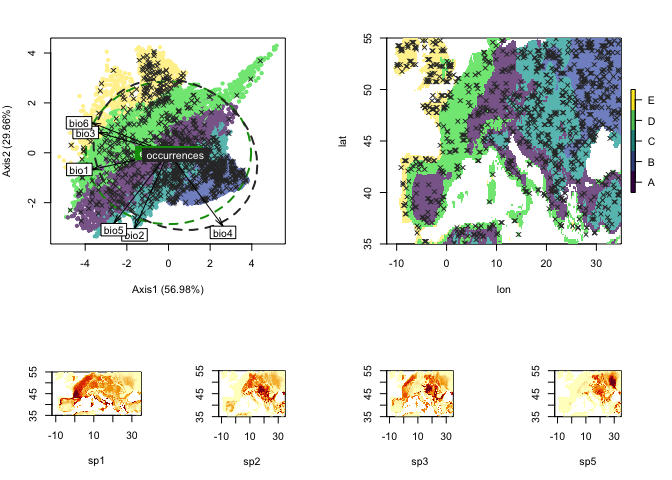
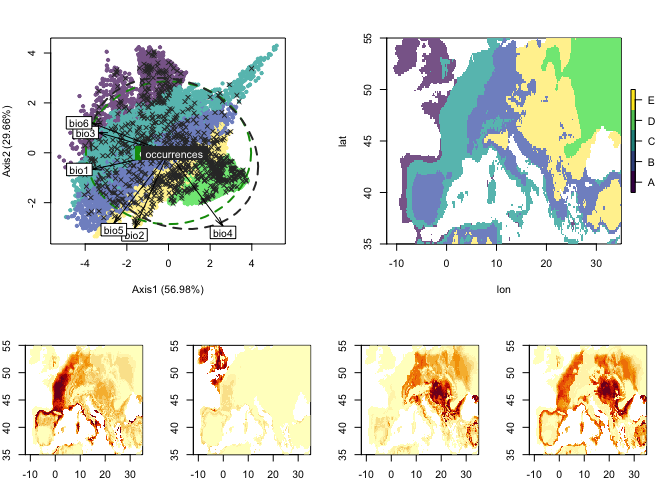
upudate sim data

diff --git a/README.md b/README.md
@@ -52,40 +52,38 @@ g1_EN = EN_model(env_data, occ_data1, cluster = "env", n.clus = 5)
 #> [1] "A" "B" "C" "D" "E"
 #>  - Carrying out species EN models in region A...
 #>      - Modelling spA Environmental Niche...
-#>      - Estimating spA niche response in region A...
+#> Warning in EN_model_(env, occ, res = res, nstart = nstart, k.max = k.max, : Not
+#> enough observations of spA in region A.
 #>      - Modelling spB Environmental Niche...
 #>      - Estimating spB niche response in region A...
 #>      - Modelling spC Environmental Niche...
 #>      - Estimating spC niche response in region A...
-#>      - Modelling spD Environmental Niche...
-#>      - Estimating spD niche response in region A...
-#>      - Modelling spE Environmental Niche...
-#>      - Estimating spE niche response in region A...
 #>  - Carrying out species EN models in region B...
 #>      - Modelling spA Environmental Niche...
-#> Warning in EN_model_(env, occ, res = res, nstart = nstart, k.max = k.max, : Not
-#> enough observations of spA in region B.
+#>      - Estimating spA niche response in region B...
 #>      - Modelling spB Environmental Niche...
 #>      - Estimating spB niche response in region B...
 #>      - Modelling spC Environmental Niche...
 #>      - Estimating spC niche response in region B...
 #>      - Modelling spD Environmental Niche...
-#>      - Estimating spD niche response in region B...
+#> Warning in EN_model_(env, occ, res = res, nstart = nstart, k.max = k.max, : Not
+#> enough observations of spD in region B.
+#>      - Modelling spE Environmental Niche...
+#>      - Estimating spE niche response in region B...
 #>  - Carrying out species EN models in region C...
 #>      - Modelling spA Environmental Niche...
-#>      - Estimating spA niche response in region C...
+#> Warning in EN_model_(env, occ, res = res, nstart = nstart, k.max = k.max, : Not
+#> enough observations of spA in region C.
 #>      - Modelling spB Environmental Niche...
 #>      - Estimating spB niche response in region C...
 #>      - Modelling spC Environmental Niche...
 #>      - Estimating spC niche response in region C...
-#>      - Modelling spD Environmental Niche...
-#>      - Estimating spD niche response in region C...
 #>      - Modelling spE Environmental Niche...
-#>      - Estimating spE niche response in region C...
+#> Warning in EN_model_(env, occ, res = res, nstart = nstart, k.max = k.max, : Not
+#> enough observations of spE in region C.
 #>  - Carrying out species EN models in region D...
 #>      - Modelling spA Environmental Niche...
-#> Warning in EN_model_(env, occ, res = res, nstart = nstart, k.max = k.max, : Not
-#> enough observations of spA in region D.
+#>      - Estimating spA niche response in region D...
 #>      - Modelling spB Environmental Niche...
 #>      - Estimating spB niche response in region D...
 #>      - Modelling spC Environmental Niche...
@@ -95,6 +93,8 @@ g1_EN = EN_model(env_data, occ_data1, cluster = "env", n.clus = 5)
 #>      - Modelling spE Environmental Niche...
 #>      - Estimating spE niche response in region D...
 #>  - Carrying out species EN models in region E...
+#>      - Modelling spA Environmental Niche...
+#>      - Estimating spA niche response in region E...
 #>      - Modelling spB Environmental Niche...
 #>      - Estimating spB niche response in region E...
 #>      - Modelling spC Environmental Niche...
@@ -102,14 +102,14 @@ g1_EN = EN_model(env_data, occ_data1, cluster = "env", n.clus = 5)
 #>      - Modelling spD Environmental Niche...
 #>      - Estimating spD niche response in region E...
 #>      - Modelling spE Environmental Niche...
-#> Warning in EN_model_(env, occ, res = res, nstart = nstart, k.max = k.max, : Not
-#> enough observations of spE in region E.
+#>      - Estimating spE niche response in region E...
 #> Warning in EN_model_(env, occ, res = res, nstart = nstart, k.max = k.max, :
 #> Model failed to predict the following species due to lack of observations
 #>   region species
-#> 1      B     spA
-#> 2      D     spA
-#> 3      E     spE
+#> 1      A     spA
+#> 2      B     spD
+#> 3      C     spA
+...
 #> Species EN models succesfully completed!
 g2_EN = EN_model(env_data, occ_data2, cluster = g1_EN$clus)
 #> Carrying out unique EN model...
@@ -122,12 +122,11 @@ g2_EN = EN_model(env_data, occ_data2, cluster = g1_EN$clus)
 #>  - Carrying out species EN models in region A...
 #>      - Modelling sp1 Environmental Niche...
 #>      - Estimating sp1 niche response in region A...
-#>      - Modelling sp2 Environmental Niche...
-#>      - Estimating sp2 niche response in region A...
-#>      - Modelling sp3 Environmental Niche...
-#>      - Estimating sp3 niche response in region A...
+#>      - Modelling sp4 Environmental Niche...
+#>      - Estimating sp4 niche response in region A...
 #>      - Modelling sp5 Environmental Niche...
-#>      - Estimating sp5 niche response in region A...
+#> Warning in EN_model_(env, occ, res = res, nstart = nstart, k.max = k.max, : Not
+#> enough observations of sp5 in region A.
 #>  - Carrying out species EN models in region B...
 #>      - Modelling sp1 Environmental Niche...
 #>      - Estimating sp1 niche response in region B...
@@ -144,8 +143,8 @@ g2_EN = EN_model(env_data, occ_data2, cluster = g1_EN$clus)
 #>      - Estimating sp2 niche response in region C...
 #>      - Modelling sp3 Environmental Niche...
 #>      - Estimating sp3 niche response in region C...
-#>      - Modelling sp5 Environmental Niche...
-#>      - Estimating sp5 niche response in region C...
+#>      - Modelling sp4 Environmental Niche...
+#>      - Estimating sp4 niche response in region C...
 #>  - Carrying out species EN models in region D...
 #>      - Modelling sp1 Environmental Niche...
 #>      - Estimating sp1 niche response in region D...
@@ -153,21 +152,21 @@ g2_EN = EN_model(env_data, occ_data2, cluster = g1_EN$clus)
 #>      - Estimating sp2 niche response in region D...
 #>      - Modelling sp3 Environmental Niche...
 #>      - Estimating sp3 niche response in region D...
-#>      - Modelling sp4 Environmental Niche...
-#>      - Estimating sp4 niche response in region D...
+#>      - Modelling sp5 Environmental Niche...
+#>      - Estimating sp5 niche response in region D...
 #>  - Carrying out species EN models in region E...
 #>      - Modelling sp1 Environmental Niche...
 #>      - Estimating sp1 niche response in region E...
-#>      - Modelling sp4 Environmental Niche...
-#>      - Estimating sp4 niche response in region E...
+#>      - Modelling sp2 Environmental Niche...
+#>      - Estimating sp2 niche response in region E...
+#>      - Modelling sp3 Environmental Niche...
+#>      - Estimating sp3 niche response in region E...
 #>      - Modelling sp5 Environmental Niche...
-#> Warning in EN_model_(env, occ, res = res, nstart = nstart, k.max = k.max, : Not
-#> enough observations of sp5 in region E.
-
+#>      - Estimating sp5 niche response in region E...
 #> Warning in EN_model_(env, occ, res = res, nstart = nstart, k.max = k.max, :
 #> Model failed to predict the following species due to lack of observations
 #>   region species
-#> 1      E     sp5
+#> 1      A     sp5
 #> Species EN models succesfully completed!
 ```
 
@@ -177,9 +176,7 @@ Correct EN models by biotic interactions:
 g2_BC <- BC_model(g2_EN, g1_EN, A.matrix = int_matrix, type = "region")
 #> Estimating biotic constrains of species in region A...
 #>  Adding biotic constrains to sp1...  ...Success!
-#>  Adding biotic constrains to sp2...  ...Success!
-#>  Adding biotic constrains to sp3...  ...Success!
-#>  Adding biotic constrains to sp5...  ...Success!
+#>  Adding biotic constrains to sp4...  ...Success!
 #> Estimating biotic constrains of species in region B...
 #>  Adding biotic constrains to sp1...  ...Success!
 #>  Adding biotic constrains to sp2...  ...Success!
@@ -187,17 +184,19 @@ g2_BC <- BC_model(g2_EN, g1_EN, A.matrix = int_matrix, type = "region")
 #>  Adding biotic constrains to sp5...  ...Success!
 #> Estimating biotic constrains of species in region C...
 #>  Adding biotic constrains to sp1...  ...Success!
+#>  Adding biotic constrains to sp4...  ...Success!
 #>  Adding biotic constrains to sp2...  ...Success!
 #>  Adding biotic constrains to sp3...  ...Success!
-#>  Adding biotic constrains to sp5...  ...Success!
 #> Estimating biotic constrains of species in region D...
 #>  Adding biotic constrains to sp1...  ...Success!
 #>  Adding biotic constrains to sp2...  ...Success!
 #>  Adding biotic constrains to sp3...  ...Success!
-#>  Adding biotic constrains to sp4...  ...Success!
+#>  Adding biotic constrains to sp5...  ...Success!
 #> Estimating biotic constrains of species in region E...
 #>  Adding biotic constrains to sp1...  ...Success!
-#>  Adding biotic constrains to sp4...  ...Success!
+#>  Adding biotic constrains to sp2...  ...Success!
+#>  Adding biotic constrains to sp3...  ...Success!
+#>  Adding biotic constrains to sp5...  ...Success!
 #>  - Carrying out models evaluations...
 #> Observations ... OK
 #> Environmental predictors ... OK
@@ -205,11 +204,11 @@ g2_BC <- BC_model(g2_EN, g1_EN, A.matrix = int_matrix, type = "region")
 #> Sampling pseudo_absences... 
 #> Performing models evaluation...
 #>  ...Evaluating sp1 niche model...
+#>  ...Evaluating sp4 niche model...
 #>  ...Evaluating sp2 niche model...
 #>  ...Evaluating sp3 niche model...
 #> Warning in cor(x, y): the standard deviation is zero
 #>  ...Evaluating sp5 niche model...
-#>  ...Evaluating sp4 niche model...
 #> Models evaluation performed.
 #> Models successfully corrected!
 ```
@@ -221,25 +220,26 @@ Transform environmental niche space into ecological niche space
 g2_EC <- EC_model(g2_BC, type = "region")
 #> Transforming niche space of species in region A...
 #>  Estimating ecological niche of sp1...   ...Success!
-#>  Estimating ecological niche of sp2...   ...Success!
-#>  Estimating ecological niche of sp3...   ...Success!
-#>  Estimating ecological niche of sp5...   ...Success!
+#>  Estimating ecological niche of sp4...   ...Success!
 #> Transforming niche space of species in region B...
 #>  Estimating ecological niche of sp1...   ...Success!
 #>  Estimating ecological niche of sp2...   ...Success!
+#>  Estimating ecological niche of sp3...   ...Success!
 #>  Estimating ecological niche of sp5...   ...Success!
 #> Transforming niche space of species in region C...
+#>  Estimating ecological niche of sp1...   ...Success!
+#>  Estimating ecological niche of sp4...   ...Success!
+#>  Estimating ecological niche of sp2...   ...Success!
+#> Transforming niche space of species in region D...
 #>  Estimating ecological niche of sp1...   ...Success!
 #>  Estimating ecological niche of sp2...   ...Success!
 #>  Estimating ecological niche of sp3...   ...Success!
 #>  Estimating ecological niche of sp5...   ...Success!
-#> Transforming niche space of species in region D...
-#>  Estimating ecological niche of sp1...   ...Success!
-#>  Estimating ecological niche of sp2...   ...Success!
-#>  Estimating ecological niche of sp4...   ...Success!
 #> Transforming niche space of species in region E...
 #>  Estimating ecological niche of sp1...   ...Success!
-#>  Estimating ecological niche of sp4...   ...Success!
+#>  Estimating ecological niche of sp2...   ...Success!
+#>  Estimating ecological niche of sp3...   ...Success!
+#>  Estimating ecological niche of sp5...   ...Success!
 #> Models successfully transformed!
 ```
 
@@ -277,19 +277,20 @@ summary(g1_EN)
 #> Geographical extents:
 #> 5
 #>   spA spB spC spD spE
-#> A   1   1   1   1   1
-#> C   1   1   1   1   1
-#> B   0   1   1   1   0
-#> D   0   1   1   1   1
-#> E   0   1   1   1   0
+#> A   0   1   1   0   0
+#> B   1   1   1   0   1
+#> C   0   1   1   0   0
+#> D   1   1   1   1   1
+#> E   1   1   1   1   1
 #> Ensemble of regional models:
 #> FALSE
 #> Failures or warnings:
 #> TRUE
 #>   region species
-#> 1      B     spA
-#> 2      D     spA
-#> 3      E     spE
+#> 1      A     spA
+#> 2      B     spD
+#> 3      C     spA
+#> 4      C     spE
 #> Models evaluation:
 #> FALSE
 print(g2_BC)
@@ -326,17 +327,18 @@ Models can be evaluated using `models_evaluation` function and visualize
 it by plotting the output.
 
 ``` r
-eval <- models_evaluation(g2_EN)
+eval <- models_evaluation(g2_BC)
 #> Observations ... OK
 #> Environmental predictors ... OK
 #> Model predictions ... OK
 #> Sampling pseudo_absences...
 #> Performing models evaluation...
 #>  ...Evaluating sp1 niche model...
+#>  ...Evaluating sp4 niche model...
 #>  ...Evaluating sp2 niche model...
 #>  ...Evaluating sp3 niche model...
+#> Warning in cor(x, y): the standard deviation is zero
 #>  ...Evaluating sp5 niche model...
-#>  ...Evaluating sp4 niche model...
 #> Models evaluation performed.
 plot(eval)
 ```
